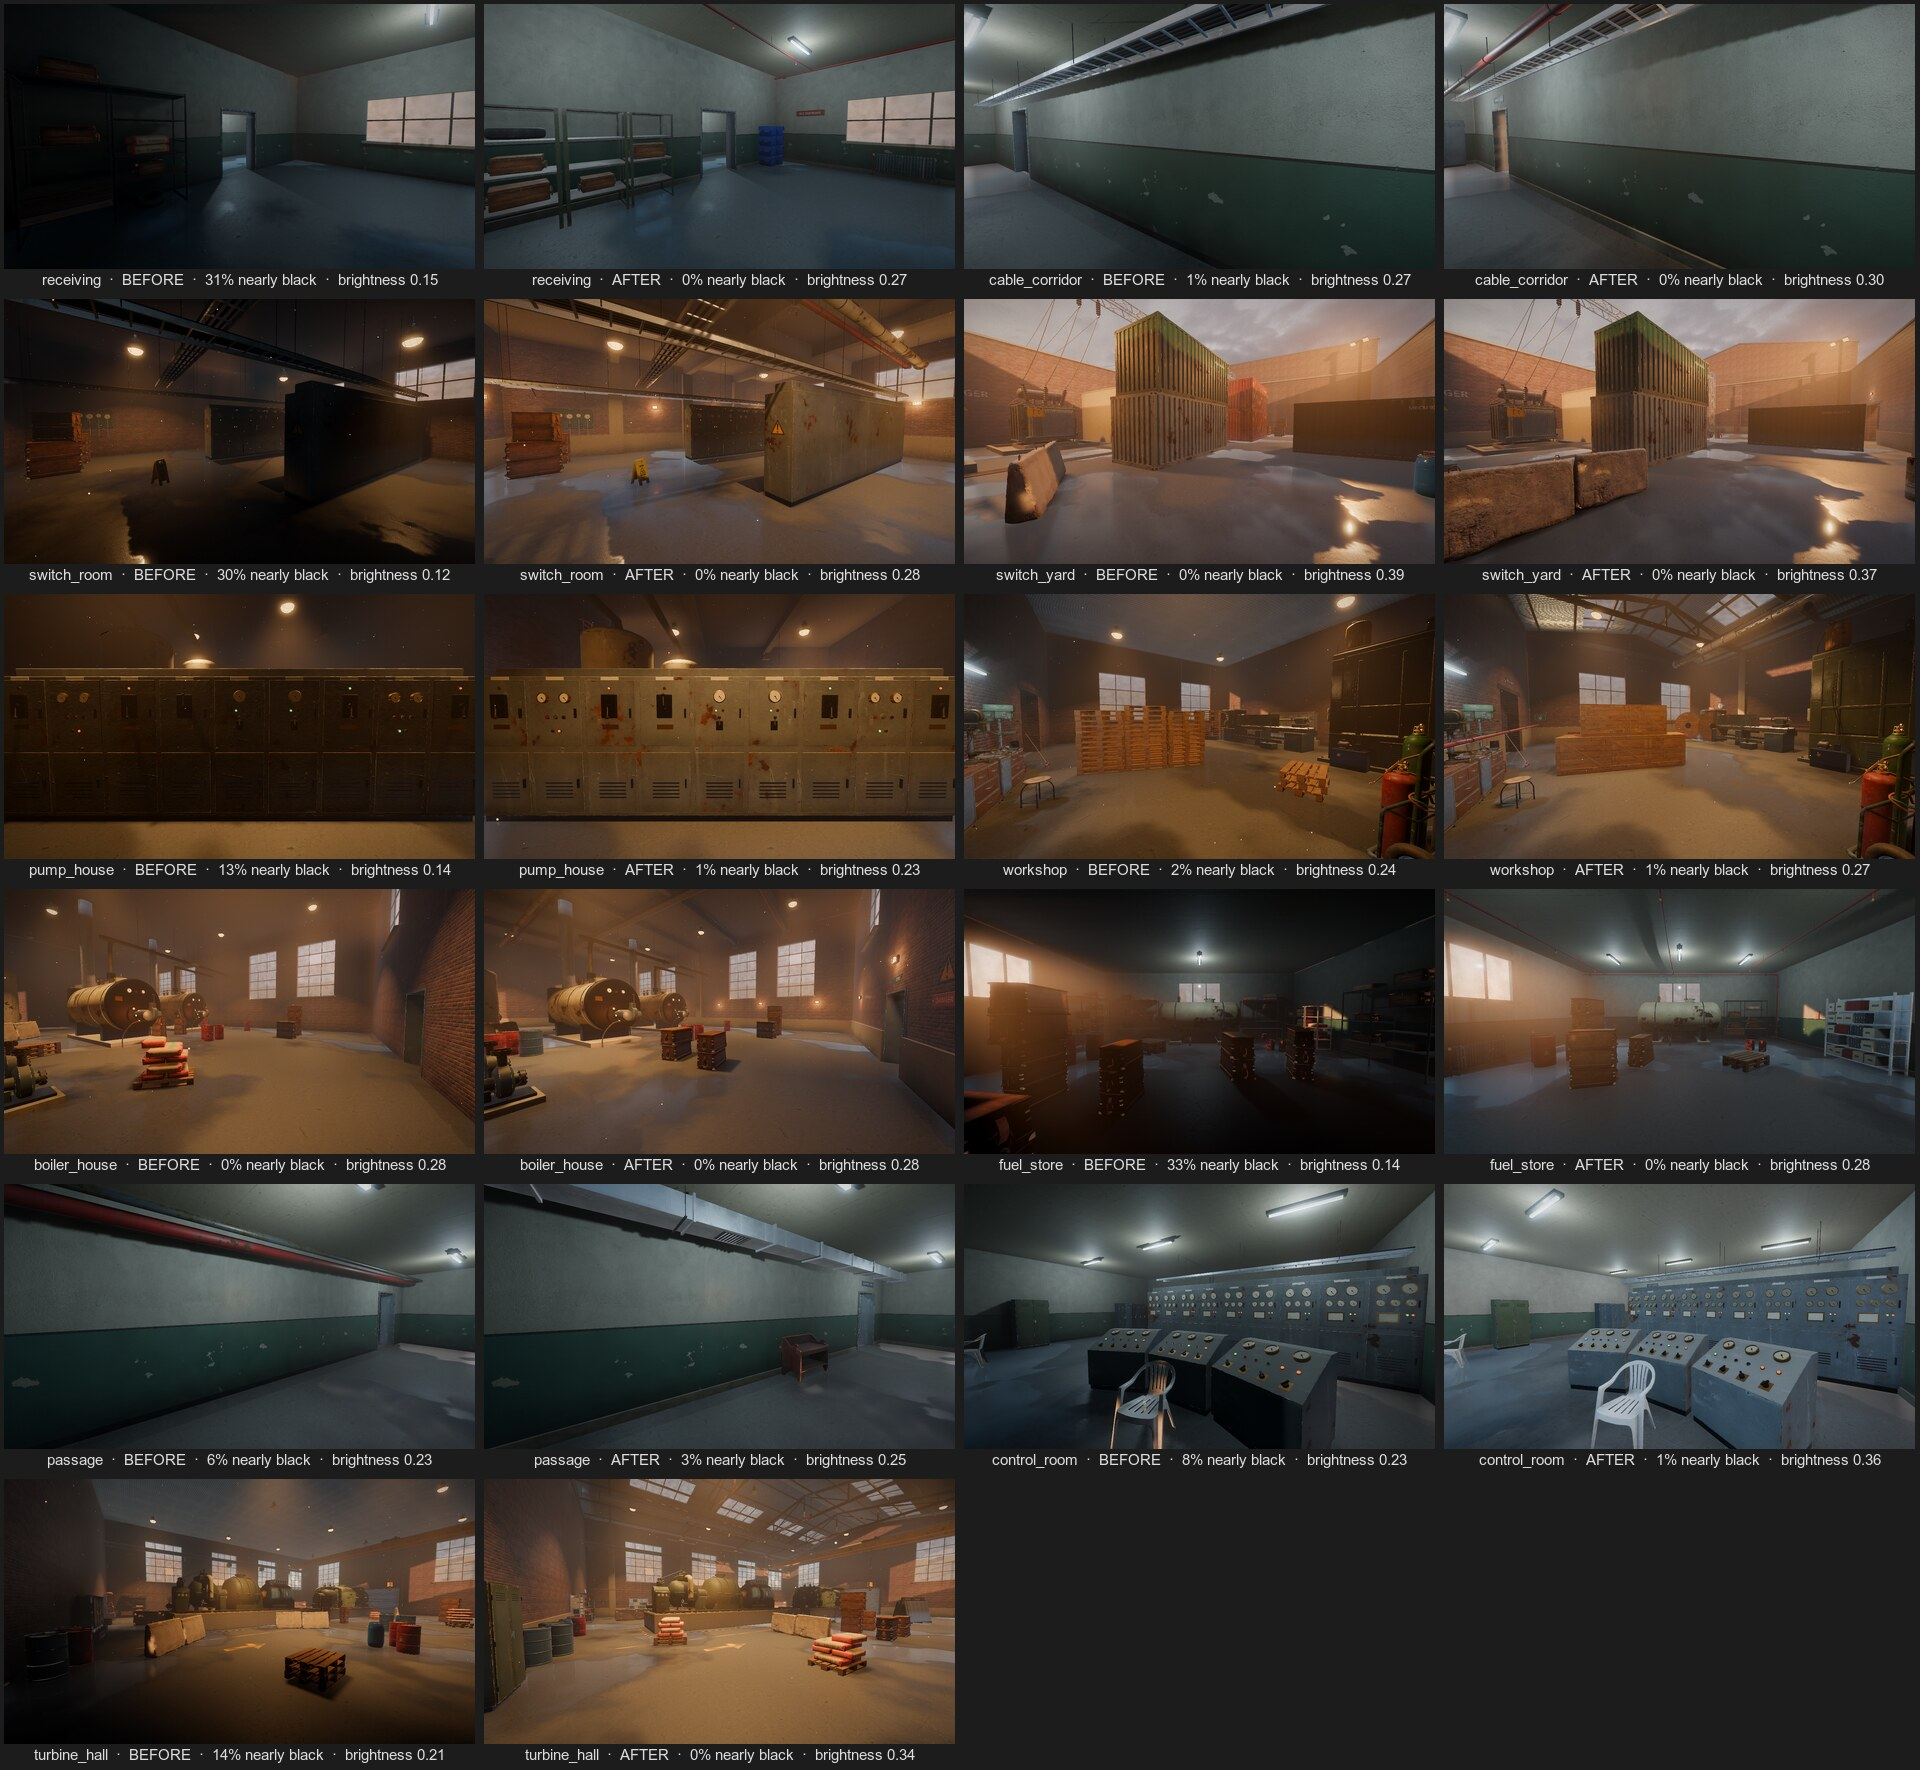
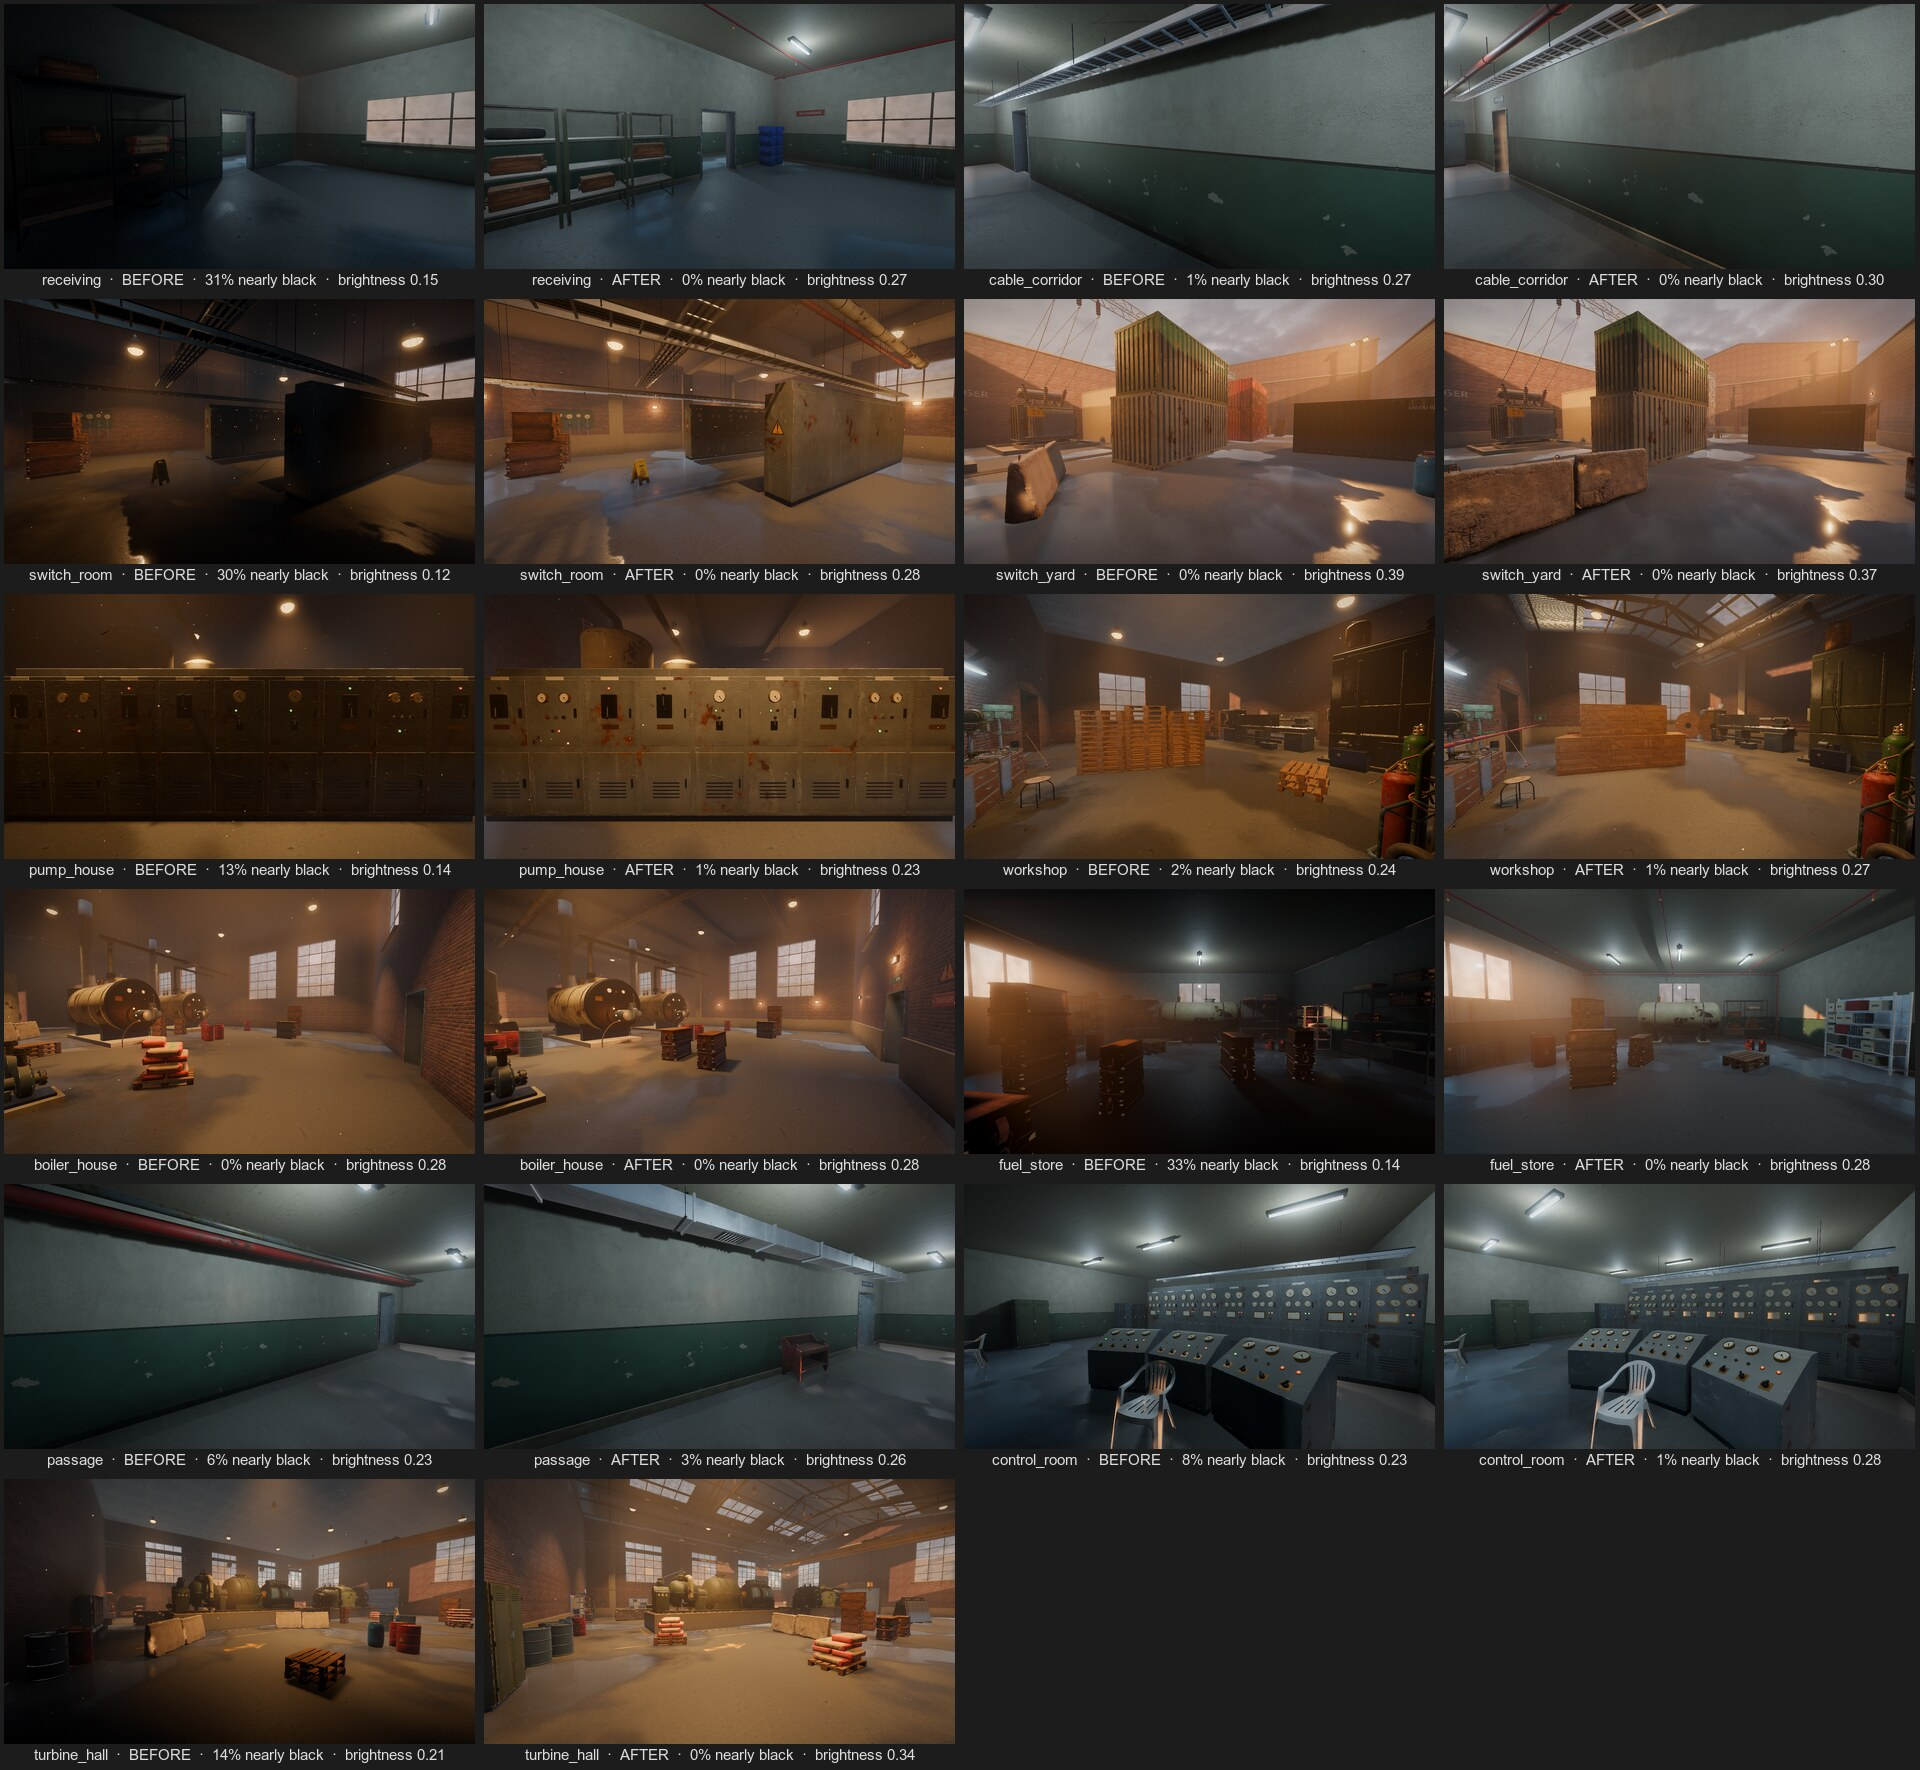
Take the sheets again with the baked light repaired, and the hallmark too
With only the lightmaps of the drawn zones switched on, in the trunk and
here, a room is drawn as it was baked. The sheets of before and after
are taken again from every door: the darkest view is still 4% nearly
black in the works and 3% in the powerhouse, and the side of before is
darker than it looked. Both levels hold the hallmark on the merged
tree; the frame rates were measured on a 20 W charger, and the plan says
what that does to them.

Changed region(s): [[0.75, 0.6525, 1.0, 0.839]]

diff --git a/PLAN.md b/PLAN.md
@@ -1621,19 +1621,30 @@ Het contactblad en het keurmerk (`tools/zone_sheet.py`, 1440p met FSR 2 op 67%, 
 | Centrale, 11 deuren | 33% (de brandstofopslag), 31% (de ontvangst), 30% (de schakelruimte) | 3% (de gang) | 0 | 0 |
 
   Over alle standpunten, ook die de bouwer zelf kiest: op het fabrieksterrein is van 78 beelden het donkerste voor 31% bijna zwart (een hoek van de oostgang, met de neus tegen een kast) en geen enkel voor meer dan de helft; in de centrale is het donkerste van 36 beelden 10%.
+
+  Dit is opnieuw gemeten met de reparatie van het gebakken licht erin, aan beide kanten (zie "Met de trunk erin"), en de tabel is gebleven wat ze was. Aan de kant "was" komen er ruimtes donkerder uit dan eerst leek, omdat ze toen zonder hun lightmap getekend waren: de loge 16% bijna zwart waar 0% stond, de compressorruimte 15%. Aan de kant "is" worden 15 van de 78 standpunten van het fabrieksterrein een kwart donkerder (gemiddeld van 0,37 naar 0,28) en blijven ze op 2% bijna zwart of minder, op één na: de schakelruimte vanuit haar tweede standpunt gaat van 0% naar 10%. De donkerste vijf zijn dezelfde: de oostgang 31%, het laadperron 23%, de westgang en de werkplaats 16%, de expeditie 9%. In de centrale verandert er niets boven de 3 punten, behalve de regelkamer vanuit haar tweede standpunt: 6%.
 - `tools/selftest.sh` slaagt (315 controles), `tools/nettest.sh` ook (62). `tools/build_check.py`: de fabriek, het depot en de modellen komen er gelijk uit; veranderd zijn het fabrieksterrein, de centrale, de vleugel en de showroom. Een tweede keer bouwen geeft dezelfde bestanden en `tools/bake_lightmaps.sh --list` noemt elke ruimte van de drie levels bij.
 - De vleugel is met dezelfde bouwdoos herbouwd en opnieuw gebakken (vijf ruimtes, 62 s, 35 MB); die staat niet in het spel.
 
 **Met de trunk erin**
 
-De trunk van 11 oktober (`fa1a9b5`: zestig beelden op het volle scherm, en de tweede ronde geluid) is in de branch samengevoegd, zodat een build uit deze worktree elke instelling van de trunk kent. Niets botste; dit plan en het manifest voegden vanzelf samen.
+De trunk van 11 oktober is twee keer in de branch samengevoegd, zodat een build uit deze worktree elke instelling van de trunk kent: eerst `fa1a9b5` (zestig beelden op het volle scherm, en de tweede ronde geluid), en toen `zestig` daarna de reparatie van het gebakken licht in de trunk zette, `4cd05bf`. Niets botste; dit plan en het manifest voegden vanzelf samen.
 
-- **De tests slagen op het resultaat**: `tools/selftest.sh` (315 controles), `tools/nettest.sh` (62) en `tools/test_sound.sh` (37 van 37).
+- **De tests slagen op het resultaat**: `tools/selftest.sh` (315 controles) en `tools/nettest.sh` (62) na beide keren, `tools/test_sound.sh` (37 van 37) na de eerste; de tweede keer veranderde alleen `scripts/zones.gd`.
 - **De muren die verbergen wat erachter staat, zijn dezelfde muren.** `_wall_off()` in `scripts/zones.gd` maakt van de dunne botsvormen van baksteen, beton en pleister occluders: 245 op het fabrieksterrein en 165 in de centrale, voor en na deze herbouw, geteld uit de scènes. Van de nieuwe stukken telt er geen mee: een dak en een plafond hebben geen botsvorm, een pilaster is te smal, en wat verder botst is van staal of hout. Er verdwijnt dus niets achter iets waar je doorheen kijkt.
 - **Het geluid leest dezelfde ruimtes.** De galm volgt uit de dozen van een zone, en die zijn gebleven wat ze waren: de plattegrond en de hoogte tot de goot. De kap van een hal telt niet mee. De twee nieuwe soorten ruimte, keuken en kleedkamer, klinken als een kamer, wat ze als magazijn en kantoor ook deden.
-- **Het keurmerk van de centrale, op de framerate na**: elke ruimte heeft haar probe, lampen, decals en een lightmap die bij is, en de standpunten kosten 204 tot 1338 tekenopdrachten (was 204 tot 1395: de occluders halen er iets af) en 0,2 tot 1,9 miljoen driehoeken.
-- **De framerate is na de samenvoeging niet te meten geweest.** Om 20:14 was de accu leeg en ging de laptop slapen, midden in een meting; om 20:47 werd hij gewekt aan een lader van 20 W. Zo'n lader levert een deel van wat de laptop onder deze last vraagt, en met een lege accu erbij tekent hij na een seconde of tien op halve kracht of minder: op het blad van de centrale meten de eerste twee standpunten 74 en 65 fps en de 34 daarna 8 tot 49. Wat er wel staat, gemeten in stukken van twintig seconden voordat het afknijpen begon, op de instellingen van het keurmerk en om en om: de montagehal van het fabrieksterrein 69,5 en 70,1 fps zoals samengevoegd tegen 66,0 en 66,2 met alles van `zestig` teruggezet (`--undo=all`), het ketelhuis 65 en 75 tegen 71 en 71. De samenvoeging maakt het dus niet trager. Vóór de samenvoeging haalden beide levels het keurmerk, met 64 fps op het traagste standpunt.
-- **Niet gedaan, en nodig zodra de laptop aan zijn eigen lader hangt**: `tools/zone_sheet.py works` en `tools/zone_sheet.py powerhouse` voor de framerate; dezelfde twee bladen op de instellingen waarop gespeeld wordt (`--res=3456x2160 --upscaler=metalfx --scale=0.5 --quality=3`); elk standpunt met en zonder de occluders en de gebonden lampen (`--undo=occlusion`, `--undo=lamps`), zoals `zestig` dat voor de oude levels deed; en de bladen met voor en na opnieuw, nu beide kanten met het beeld van de trunk. De bladen die er liggen zijn van vóór de samenvoeging: de kant "voor" is de trunk met de zestig beelden erin, de kant "na" deze branch zonder. Op het niveau waarop die bladen gemaakt zijn (High) verandert `zestig` volgens zijn eigen telling minder dan een promille van de pixels.
+- **De reparatie van het gebakken licht raakt wat hier over licht gezegd is, en het houdt stand.** `zestig` vond dat de renderer acht lightmaps per frame gebruikt, waar het fabrieksterrein er 23 heeft en de centrale 11: een wisselend deel van de ruimtes werd zonder gebakken licht getekend, egaal blauwgrijs en te licht. Dat gold ook voor de bladen en de cijfers van dit hoofdstuk. Met de reparatie in beide checkouts zijn de bladen met voor en na opnieuw gemaakt en is opnieuw geteld hoe donker elk standpunt is: zie "Hoe donker" hierboven. Vanuit de deur is het donkerste beeld nog steeds 4% bijna zwart op het fabrieksterrein en 3% in de centrale; de kant "voor" is donkerder dan ze eerst leek.
+- **Vanuit de westgang van het fabrieksterrein worden negen zones tegelijk getekend**, die van voorheen: de gang zelf, de twee kantoren, het archief, de kleedkamer, het magazijn, de gereedschapsruimte, de loge en het voorportaal. De verste van de negen krijgt dan geen gebakken licht. De bouwer kan dat voorkomen door geen ruimte meer dan zeven andere te laten zien; dat is niet gedaan.
+- **Het keurmerk, op de samengevoegde stand**: "Every zone has what it is held to" voor beide levels.
+
+| | Standpunten | Tekenopdrachten | Driehoeken | Fps | Traagste standpunt |
+|---|---|---|---|---|---|
+| Fabrieksterrein | 78 | 215 tot 1777 | 0,1 tot 1,8 miljoen | 60 tot 85 | de oostgang, derde standpunt: 60,4 |
+| Centrale | 36 | 204 tot 1338 | 0,2 tot 1,9 miljoen | 65 tot 79 | de werkplaats, eerste standpunt: 64,8 |
+
+  De occluders halen er tekenopdrachten af: over alle standpunten van het fabrieksterrein samen 5%, en in de centrale 1338 waar 1395 het meeste was.
+- **Die framerates zijn gemeten aan een lader van 20 W, en dat is te zien.** Om 20:14 was de accu leeg en ging de laptop slapen, midden in een meting; om 20:47 werd hij gewekt aan een telefoonlader. Zo'n lader levert een deel van wat de laptop onder deze last vraagt, en met een bijna lege accu erbij tekent hij met tussenpozen op halve kracht of minder. Een eerste blad van de centrale, om 21:04 met de accu op 5%, mat op de eerste twee standpunten 74 en 65 fps en op de 34 daarna 8 tot 49. De bladen van de tabel zijn van 21:36 en 21:42, met de accu op 10%: van de 78 standpunten van het fabrieksterrein haalden er 33 de eerste keer de 60 niet (34 tot 59 fps) en de tweede keer wel. Gemiddeld is een standpunt 1,2 fps sneller dan op het blad van vóór de samenvoeging, maar het ene is 17 fps trager en het andere 10 sneller, zonder dat er iets anders getekend wordt. De 60 van de oostgang zegt dus weinig; in rust was het traagste standpunt 64. Om en om gemeten, in stukken van twintig seconden: de montagehal 69,5 en 70,1 fps zoals samengevoegd tegen 66,0 en 66,2 met alles van `zestig` teruggezet (`--undo=all`), het ketelhuis van het fabrieksterrein 65 en 75 tegen 71 en 71.
+- **Niet gedaan, en nodig zodra de laptop aan zijn eigen lader hangt**: de twee bladen opnieuw, voor een framerate die iets zegt; dezelfde twee op de instellingen waarop gespeeld wordt (`--res=3456x2160 --upscaler=metalfx --scale=0.5 --quality=3`); en elk standpunt met en zonder de occluders en de gebonden lampen (`--undo=occlusion`, `--undo=lamps`), zoals `zestig` dat voor de oude levels deed.
 - **`tools/clone_imports.py <andere checkout>`** haalt naar een checkout wat een andere al geïmporteerd heeft. Wie deze branch in de trunk zet, krijgt de bronnen van 39 lightmaps, 29 modellen en 29 opschriften, maar niet wat Godot ervan maakte: dat staat in `.godot/imported/`, buiten Git. Zonder speelt het spel uit de hoofdcheckout het fabrieksterrein met de lightmaps van vóór de herbouw op de wanden van erna, tot de editor alles opnieuw heeft geïmporteerd. Het gereedschap kloont van elke bron wat de andere checkout ervan maakte, als dat van dezelfde versie van de bron gemaakt is (197 bronnen, 339 MB, als klonen: het kost geen ruimte), en neemt de regel van de editor mee voor de veertien lightmaps waarvan het `.import`-bestand veranderde. Uitgeprobeerd op een kopie van de trunk met deze branch eroverheen, elk bestand met de tijd van nu, zoals Git het achterlaat: de editor is daarna in acht seconden rond en importeert niets, en het fabrieksterrein, de centrale, de vleugel en de showroom laden met alle 39 lightmaps en zonder één melding.
 
 **Onderweg gevonden**
